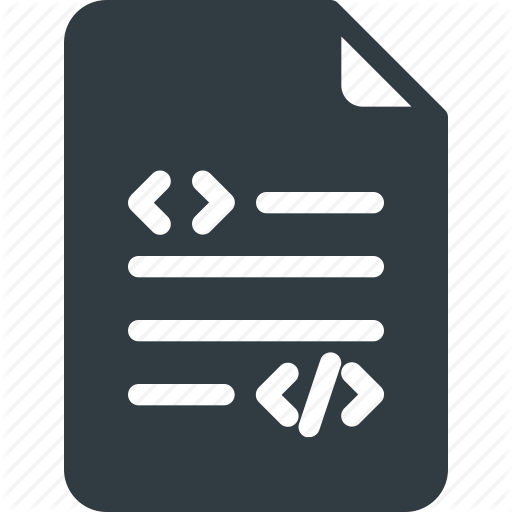
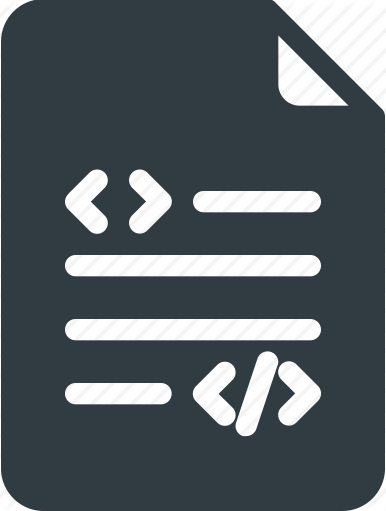
the last update

diff --git a/index.html b/index.html
@@ -10,7 +10,7 @@
 	</head>
 	<body>
 
-		<!-- Header -->
+	
 			<header id="header">
 				<nav class="left">
 					<a href="#menu"><span>Menu</span></a>
@@ -20,7 +20,7 @@
 				</nav>
 			</header>
 
-		<!-- Menu -->
+		
 			<nav id="menu">
 				<ul class="links">
 					<li><a href="index.html">Κεντρική</a></li>
@@ -31,7 +31,7 @@
 				</ul>
 			</nav>
 
-		<!-- Banner -->
+		
 			<section id="banner">
 				<div class="content">
 					<h1>Kαλώς ορίσατε</h1>
@@ -39,7 +39,7 @@
 				</div>
 			</section>
 
-		<!-- One -->
+
 			<section id="one" class="wrapper" >
 				<div class="inner flex flex-3">
 					<div class="flex-item left">
@@ -53,7 +53,7 @@
 						</div>
 					</div>
 					<div class="">
-						<img src="images/pic01.png" style="width: 18em; height: 19em;"/>
+						<img src="images/pic01.png" style="width: 18em; height: 26em;"/>
 					</div>
 					<div class="flex-item right">
 						<div>
@@ -67,7 +67,7 @@
 				</div>
 			</section>
 
-		<!-- Two -->
+
 			<section id="two" class="wrapper style1 special">
 				<div class="inner">
 					<h2>Προσωπικές ασχολίες στην πληροφορική</h2>
@@ -81,7 +81,7 @@
 				</div>
 			</section>
 	<hr class="major"/>	
-		<!-- Footer -->
+		
 			<footer id="footer">
 				<div class="inner">
 					<h3>Επικοινωνία</h3>
@@ -95,7 +95,7 @@
 				</div>
 			</footer>
 
-		<!-- Scripts -->
+		
 			<script src="assets/js/jquery.min.js"></script>
 			<script src="assets/js/jquery.scrolly.min.js"></script>
 			<script src="assets/js/skel.min.js"></script>
